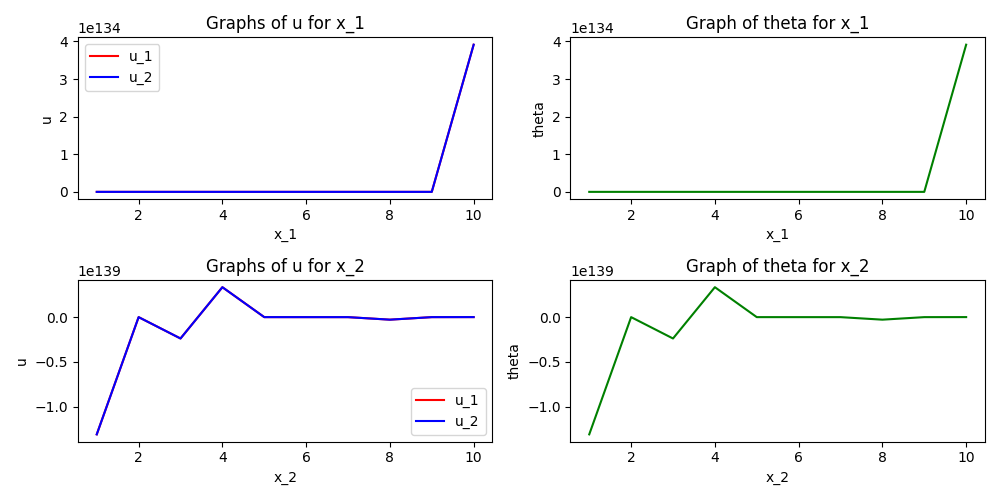
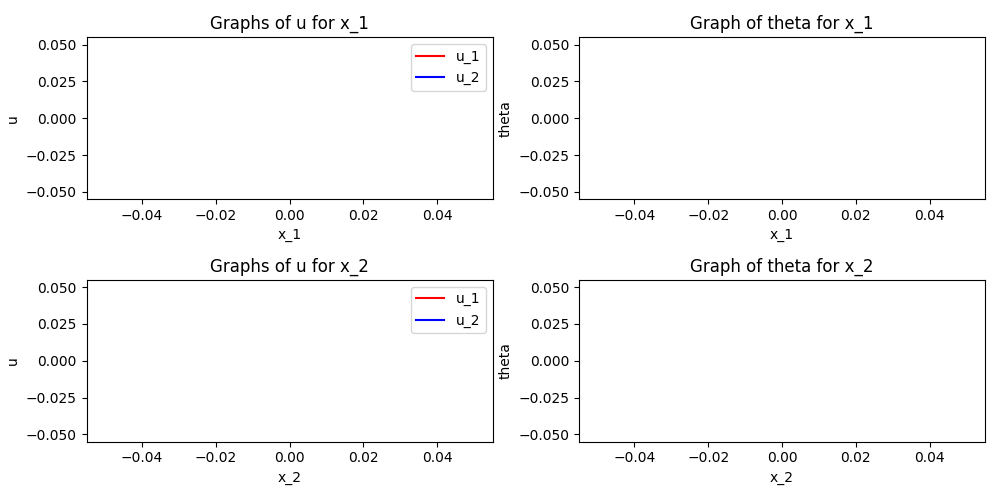
Changed the plots of u and theta

diff --git a/app.py b/app.py
@@ -118,8 +118,8 @@ def page1():
             st.session_state.gammaPar = gammaPar
             st.session_state.etaPar = etaPar
             st.session_state.kappaPar = kappaPar
-    omegaParameterFrom=st.number_input("Choose frequency 1 ")
-    omegaParameterTo = st.number_input("Choose frequency 2 ")
+    omegaParameterFrom=st.number_input("Choose starting frequency omega ")
+    omegaParameterTo = st.number_input("Choose endimg frequency omega ")
     xiParInput = st.number_input("Choose constant xi")
     x_1 = st.number_input("Choose variable x1")
     x_2 = st.number_input("Choose variable x2")
@@ -358,8 +358,9 @@ def page2():
         def a_lj(j, x_1, xiPar, omegaChange):
               a = deepcopy(b_lj(xiPar, omegaChange))
               new_col = np.zeros((3),dtype = 'complex_')
-              for j in range(3):
-                new_col[j] = Kronecker(j, 1)
+              new_col[0] = Kronecker(j, 0)
+              new_col[1] = Kronecker(j, 1)
+              new_col[2] = Kronecker(j, 2)
               new_col = new_col.T
               a[:, j] = new_col
               return a
@@ -376,14 +377,16 @@ def page2():
               kList = kRootList(xiPar, omegaChange)
               VTensor = np.zeros((3, len(kList)), dtype=np.complex128)
               VTensorElement = complex(0, 0)
-              for k in range(len(kList)):
-                VTensorElement = complex(0, 0)
-                for j in range(3):
-                  integrand = lambda xiPar: ATensorV[j] * vTotalList[k, j] * np.exp(1j * kList[j] * x_1 - 1j * xiPar * x_2)
-                  VTensorElement += quad(integrand, -np.inf, np.inf)[0]
-                VTensorElement *= 1 / (2 * np.pi)
-                VTensor[:, k] = VTensorElement
+              for m in range(3):
+                for k in range(len(kList)):
+                  VTensorElement = complex(0, 0)
+                  for j in range(3):
+                    integrand = lambda xiPar: ATensorV[j] * vTotalList[k, j] * np.exp(1j * kList[j] * x_1 - 1j * xiPar * x_2)
+                    VTensorElement += quad(integrand, -np.inf, np.inf)[0]
+                  VTensorElement *= 1 / (2 * np.pi)
+                  VTensor[k, m] = VTensorElement/np.exp(100)
               return VTensor
+
         def F_S(x_1, x_2):
             return np.heaviside(x_1, x_2)
 
